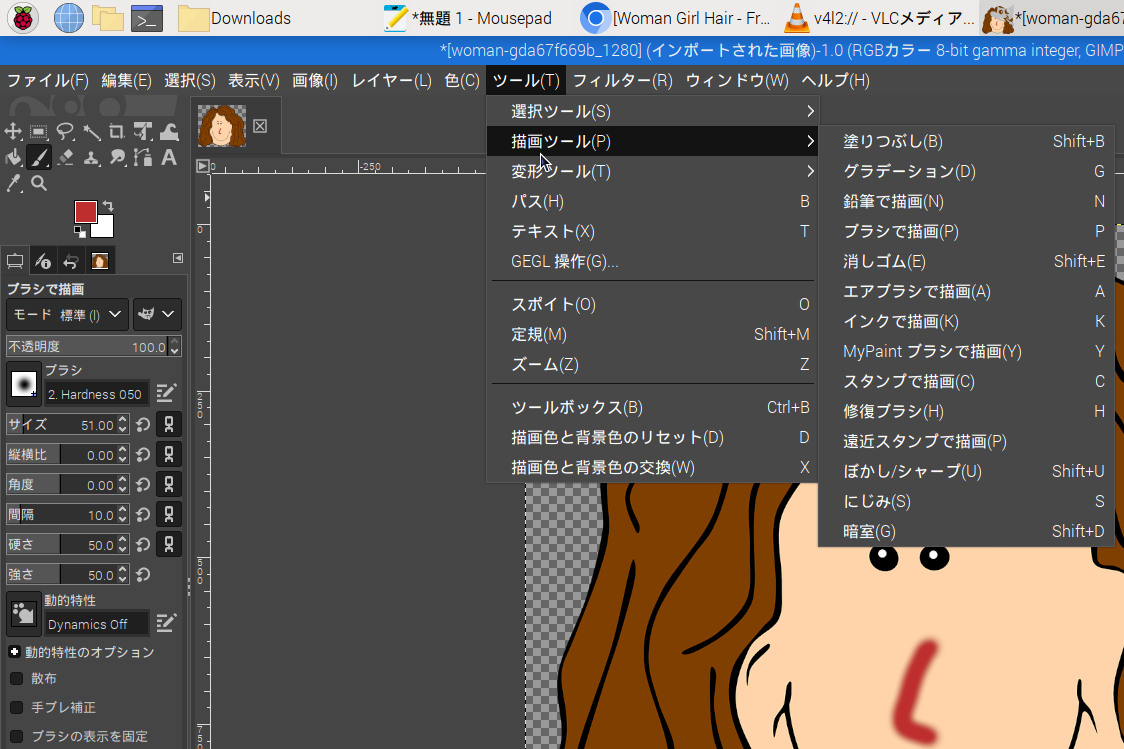
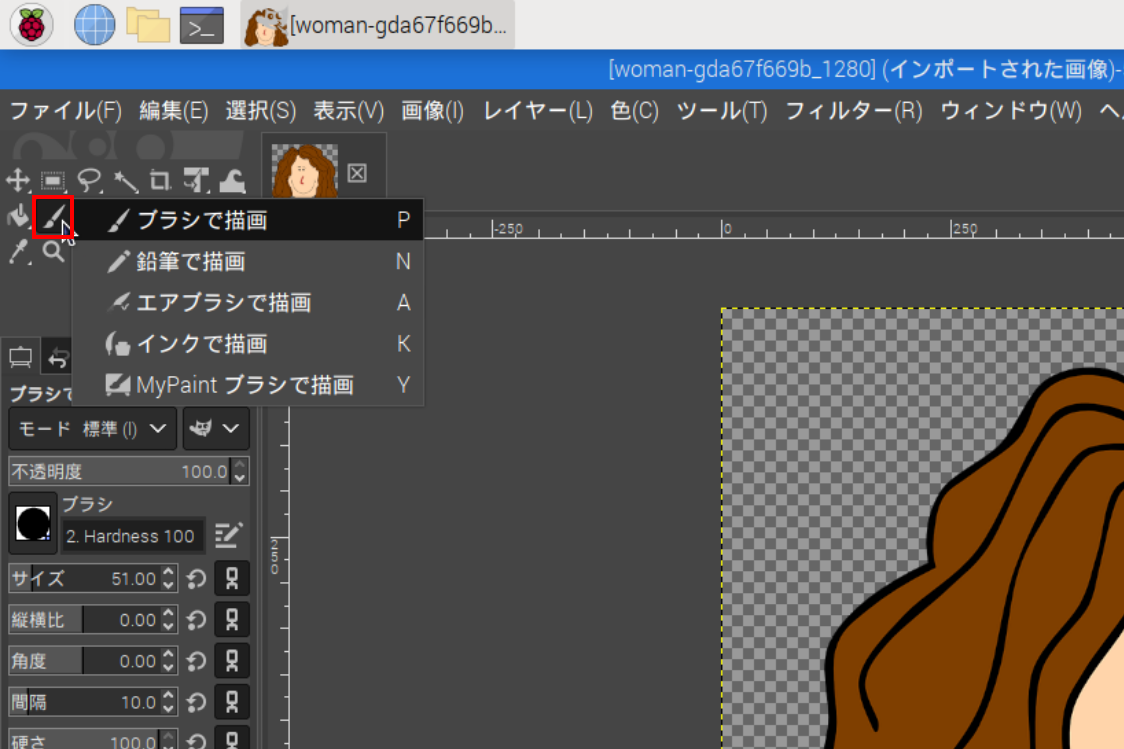
GIMP描画ツールの選択手順を変更し、簡易化

diff --git a/01/contents/chap01_03.tex b/01/contents/chap01_03.tex
@@ -285,7 +285,7 @@
     \hfill
     \begin{minipage}{8.966cm}
       \includegraphics[width=8.881cm,height=4.997cm]{textbook-img133.png}\\
-      １０　他にもたくさんツールはあります。メニューのツール\ruby{欄}{らん}にある\ruby{描画}{びょうが}ツールで選べるよ。\ruby{鉛筆}{えんぴつ}、インクを試してみよう。書き方はいっしょで左クリックをを\ruby{押}{お}しながら\ruby{移動}{いどう}だよ
+      １０　赤い\ruby{枠}{わく}で囲まれたブラシのアイコンを右クリックすると、別のお絵描きツールを選ぶことができるよ。\ruby{鉛筆}{えんぴつ}、インクを試してみよう。書き方はいっしょで左クリックをを\ruby{押}{お}しながら\ruby{移動}{いどう}だよ
     \end{minipage}
   \end{minipage}
 \end{figure}
